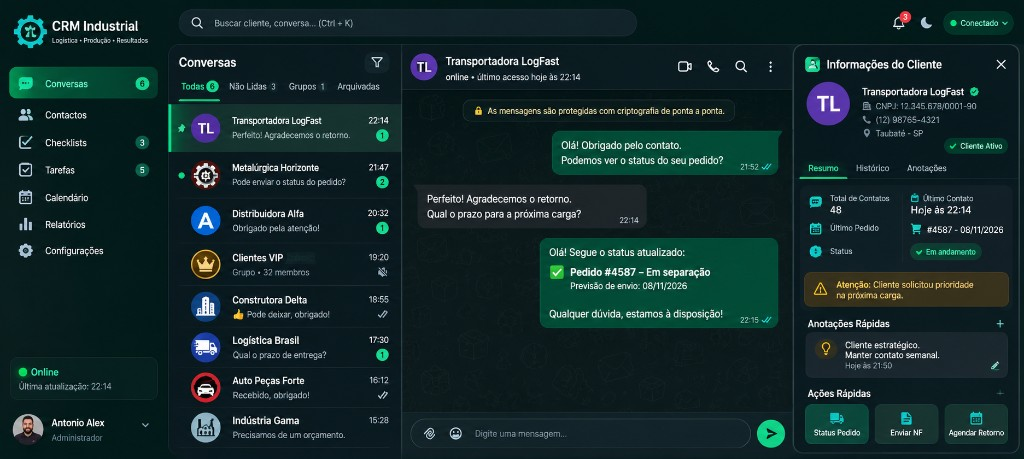
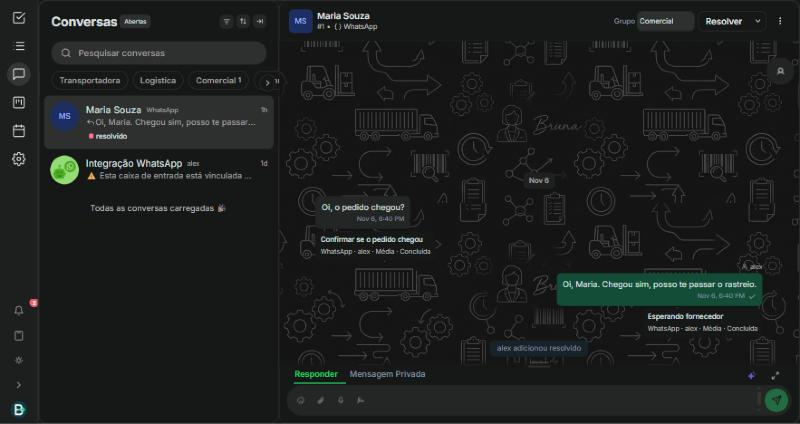
Atualiza a vitrine com Kanban, Lembretes e engenharia de producao
Descreve Kanban, cards, alertas, calendario, Lembretes, calculadora,
mensagem privada, grupos e as marcas de prioridade e card na lista,
relacionando cada funcao aos conceitos de gestao da producao. Corrige a
escrita para Checklist e renova as fotos, com dados de demonstracao.
O codigo da aplicacao continua fechado.

diff --git a/README.md b/README.md
@@ -1,8 +1,8 @@
 # CRM Industrial
 
-Comunicação entre setores tratada como melhoria contínua. O CRM reúne o pedido que chega de fora, a demanda de quem executa e o registro do que já foi feito. O projeto está em evolução, aplicado a uma indústria, e o código da aplicação permanece fechado.
+Comunicação entre setores tratada como melhoria contínua. O CRM reúne o pedido que chega de fora, a demanda de quem executa e o registro do que já foi feito. O projeto está em evolução, aplicado a uma operação real, e o código da aplicação permanece fechado.
 
-Este repositório guarda o raciocínio, a estrutura, a segurança e fotos do sistema em uso. Conversas de clientes não são publicadas.
+Este repositório guarda o raciocínio, a estrutura, a segurança e fotos do sistema. As fotos usam dados de demonstração. Conversas de clientes não são publicadas.
 
 ## O problema que a ferramenta ataca
 
@@ -13,11 +13,26 @@ Isso é desperdício de comunicação: retrabalho de pergunta, tarefa esquecida 
 O ciclo é o da rotina, não o de um relatório anual:
 
 1. **Registrar.** A mensagem ou a demanda do dia entra no CRM.
-2. **Executar.** O colaborador vê a própria lista e a conversa de origem.
-3. **Medir.** O andamento mostra o que falta, o que fechou e a taxa de conclusão da semana.
-4. **Ajustar.** A lista, a prioridade e o responsável mudam conforme a operação mostra o furo.
+2. **Executar.** O colaborador vê a própria lista, o quadro e a conversa de origem.
+3. **Medir.** O andamento mostra o que falta, o que fechou, o que atrasou e quanto tempo cada item está parado.
+4. **Ajustar.** A lista, a prioridade, o responsável e as colunas mudam conforme a operação mostra o furo.
 
 A ferramenta custa pouco porque a base é software aberto, hospedado pela própria operação. O investimento vai para o ajuste ao processo, não para uma licença fechada de prateleira.
+
+## Engenharia de produção aplicada
+
+O sistema é o meio. O que ele organiza vem da gestão da produção.
+
+| Conceito | Onde aparece no sistema |
+| --- | --- |
+| Gestão visual | Kanban com colunas definidas pela própria operação e cor automática por prazo, e cor de prioridade no contato da lista de conversas. O estado do trabalho é visto sem perguntar a ninguém. |
+| Fluxo e tempo em etapa | Cada card mostra há quanto tempo está na coluna. O histórico soma o tempo por etapa, e o gargalo aparece. |
+| Padronização | Modelos de quadro por tipo de operação e checklist específico para cada serviço. |
+| Prevenção de erro | A mesma conversa não abre dois cards no mesmo quadro, excluir pede confirmação e arquivar permite voltar atrás. |
+| Redução de desperdício | Alerta um dia antes e no dia do prazo, para a cobrança não depender da memória de alguém. |
+| Indicador do que foi registrado | Taxa de conclusão, atrasados, próximos e concluídos da semana saem das tarefas reais, não de preenchimento manual. |
+
+O Kanban foi feito para servir a qualquer tipo de empresa. Os nomes dos itens, do cliente, do prazo e do que é concluído são definidos em cada quadro.
 
 ## Quem conduz
 
@@ -46,14 +61,25 @@ Uma conversa não fica presa em quem atendeu primeiro. Ela pode ser marcada por 
 | Responsável | Alguém fica atribuído. A demanda tem nome, não “alguém vê”. |
 | Etiqueta | O estado do assunto fica marcado, por exemplo quando já foi resolvido, sem apagar a conversa. |
 | Ficha do contato | Telefone, canal e contexto ficam junto da conversa. O externo não precisa ser reconstruído a cada turno. |
-| Atividade na mensagem | Do recado nasce uma atividade: título, origem, prioridade, responsável e situação. A conclusão é feita na conversa, onde o fato aconteceu. |
-| Cheqlist | A demanda diária vira lista. O colaborador abre, marca o que cumpriu e lança o que ainda falta. O concluído fica separado do que está em aberto. |
-| Andamento | Listas, em aberto, concluídas, taxa de conclusão, comparação da semana, pendências e progresso de cada lista. O número sai da tarefa registrada. |
-| Lembrete da conversa | A atividade criada no atendimento aparece no Cheqlist, com botão para voltar à conversa. Quando a conversa a encerra, o lembrete sai da lista. |
-| Celular | No turno, a tela mostra uma função de cada vez: lista de conversas, conversa aberta ou Cheqlist. A volta fica no cabeçalho da conversa. |
+| Mensagem privada | A equipe combina dentro da conversa, com cor própria e autor em cada nota, sem nada sair para o cliente. |
+| Grupos do WhatsApp | Cada participante aparece com foto ou iniciais, e o nome de quem falou aparece uma vez só. |
+| Origem do envio | Dá para ver se a mensagem saiu do celular ou de uma pessoa no CRM. |
+| Atividade na mensagem | Do recado nasce uma atividade: título, origem, prioridade, responsável, situação e prazo. Se fizer sentido, ela já vira um card. |
+| Botão direito na conversa | Atividade e card são criados direto da lista, sem abrir a conversa. |
+| Contato na lista | O contato assume a cor da maior prioridade em aberto, e um selo mostra que ele já tem card. Quem abre a lista vê o que pesa antes de clicar. |
+| Lembretes | As atividades se organizam em atrasados, para hoje, próximos e sem prazo, com concluir e voltar à conversa na mesma linha. |
+| Kanban | Quadros pessoais e da empresa, colunas livres, cards fechados ou abertos, prioridade por cor e arrastar entre etapas. |
+| Conversa ao lado do quadro | O card abre a conversa do WhatsApp em um painel lateral, sem perder a posição no quadro. |
+| Checklist no card | Cada serviço tem a própria lista, e o card mostra a taxa de progresso. |
+| Calendário | Prazos de cards e atividades, agendamentos e reuniões em uma visão só. |
+| Alertas de prazo | Sino na barra lateral e aviso no navegador, um dia antes e no dia, pelo horário de São Paulo. |
+| Tarefas e Checklist | A demanda diária vira lista. O colaborador abre, marca o que cumpriu, edita e lança o que ainda falta. |
+| Andamento | Listas, em aberto, concluídas, taxa de conclusão, comparação da semana e progresso de cada lista. O número sai da tarefa registrada. |
+| Calculadora | Janela flutuante que se arrasta por cima da conversa, para fazer a conta sem sair do atendimento. |
+| Celular | No turno, a tela mostra uma função de cada vez, com a volta no cabeçalho da conversa. |
 | Mais de uma operação | O acesso é por empresa. A rotina de uma não se mistura com a da outra. |
 
-O Cheqlist não substitui a conversa, e a conversa não substitui a lista. Um guarda o combinado com o cliente. O outro guarda o que o colaborador tem de cumprir no dia. O lembrete liga os dois.
+As Tarefas não substituem a conversa, e a conversa não substitui a lista. Uma guarda o combinado com o cliente. A outra guarda o que o colaborador tem de cumprir no dia. O lembrete liga as duas.
 
 ## Como está estruturado
 
@@ -63,8 +89,8 @@ A operação sobe com Docker Compose. Cada parte é um serviço, reinicia sozinh
 | --- | --- |
 | Traefik | Única entrada da internet. Entrega o site em HTTPS. |
 | Aplicação | Tela e API do CRM. |
-| Sidekiq | Fila do que não pode travar a tela: envio e processamento em segundo plano. |
-| PostgreSQL 16 | Conversas, contatos, atividades, Cheqlist e usuários. |
+| Sidekiq | Fila do que não pode travar a tela: envio, rotina de alertas e processamento em segundo plano. |
+| PostgreSQL 16 | Conversas, contatos, atividades, quadros, tarefas e usuários. |
 | Redis | Fila, cache e sessão. Exige senha e grava em disco. |
 | Conector de WhatsApp | Liga o canal à operação. Permanece na rede interna. |
 
@@ -76,34 +102,58 @@ A proteção foi montada em camadas, da porta da internet até a senha de quem e
 
 - A internet só chega pelo Traefik, nas portas 80 e 443. HTTP é enviado para HTTPS. O certificado é emitido e renovado sem intervenção manual.
 - O painel do Traefik fica desligado. Serviço que não for marcado para publicação não aparece fora.
-- O navegador recebe proteção de cabeçalho: a página não entra em outro site, o tipo do arquivo não é adivinhado, a referência de origem é restrita e o HTTPS é exigido por um período longo.
+- O navegador recebe proteção de cabeçalho: o tipo do arquivo não é adivinhado, a referência de origem é restrita e o HTTPS é exigido por um período longo.
 - PostgreSQL, Redis e o conector de WhatsApp não têm porta aberta para a internet. Só a aplicação da borda fala com eles.
 - Banco e Redis usam senha. As senhas não estão neste repositório. São geradas no servidor e lidas por variável de ambiente.
 - A senha de cada pessoa fica só como hash. O sistema não a devolve. O cadastro público está fechado: entra quem recebeu acesso.
+- As permissões são validadas no servidor. Quadro pessoal só o dono vê, e quem não tem acesso a uma caixa de entrada não enxerga a conversa dela, mesmo vinculada a um card.
 - Cada serviço sobe sem permissão para elevar privilégio. O log tem tamanho limitado, para não encher o disco.
+
+## Como cada mudança é validada
+
+Primeiro em um ambiente separado, com dados de demonstração. Só depois vai para a operação.
+
+- Antes de publicar: cópia do banco, com leitura conferida, e cópia da versão em uso para poder voltar.
+- Mudança de banco é apresentada antes, só acrescenta e foi testada também no caminho de volta.
+- O Kanban passou por 108 verificações de API em criação, edição, vínculos, movimentação e permissões. Alertas e checklist, por mais 38.
+- Em teste de carga com 3.000 cards em 6 colunas, o quadro abriu em cerca de 340 ms, carregando só o que aparece na tela.
 
 ## Evolução
 
 O que já está na rotina:
 
-1. A tela de trabalho com a identidade da operação.
+1. A tela de trabalho com a identidade da operação e tema claro e escuro.
 2. Conversas do dia, com histórico para o setor seguinte.
 3. Atividade nascida na mensagem e encerrada na conversa.
-4. Cheqlist da demanda diária e andamento medido em cima do que foi registrado.
+4. Tarefas da demanda diária e andamento medido em cima do que foi registrado.
 5. Uso no celular, no mesmo fluxo da lista, da conversa e da tarefa.
+6. Kanban adaptável, com conversa lateral, checklist por serviço e tempo em cada etapa.
+7. Calendário de prazos e alertas automáticos.
 
 O ajuste seguinte sai da observação do turno: o que o colaborador não acha, o que o outro setor pergunta de novo, o que a lista ainda não cobre. Melhoria contínua aqui é mudança pequena, com o processo na frente da ferramenta.
 
 ## Fotos
 
-Cheqlist do dia. A lista aberta, o que ainda falta, o que já foi concluído e o andamento ao lado.
+Lembretes. O que está atrasado, o que vence hoje e o que vem depois, com o resumo ao lado.
 
-![Cheqlist com a lista do dia, as tarefas e o andamento](fotos/cheqlist-tarefas.jpg)
+![Lembretes organizados por prazo, com resumo ao lado](fotos/lembretes.jpg)
 
-Conversas. O atendimento fica reunido, com o histórico e a ficha de quem está do outro lado.
+Kanban. Colunas da própria operação, cor por prazo e prioridade, tempo na etapa e checklist no card.
 
-![Conversas com o histórico e a ficha do contato](fotos/conversas.jpg)
+![Kanban com colunas, cards, prazos e prioridade](fotos/kanban.jpg)
+
+Tarefas e Checklist. A lista aberta, o que ainda falta, o que já foi concluído e o andamento ao lado.
+
+![Tarefas com a lista do dia e o andamento](fotos/tarefas-checklist.jpg)
+
+Calendário. Prazos de cards e atividades em um só lugar.
+
+![Calendário com os prazos do mês](fotos/calendario.jpg)
+
+Conversas. O atendimento fica reunido, com o histórico e a identificação de quem enviou.
+
+![Conversas com o histórico](fotos/conversas.jpg)
 
 ## Código
 
-O código da aplicação, as senhas, as conversas e os dados da operação não são publicados. Este repositório é a vitrine do projeto.
+O código da aplicação, as senhas, as conversas e os dados da operação não são publicados. Este repositório é a vitrine do projeto. A base de atendimento é o Chatwoot Community Edition, de licença MIT; os módulos descritos aqui foram construídos sobre ela.
